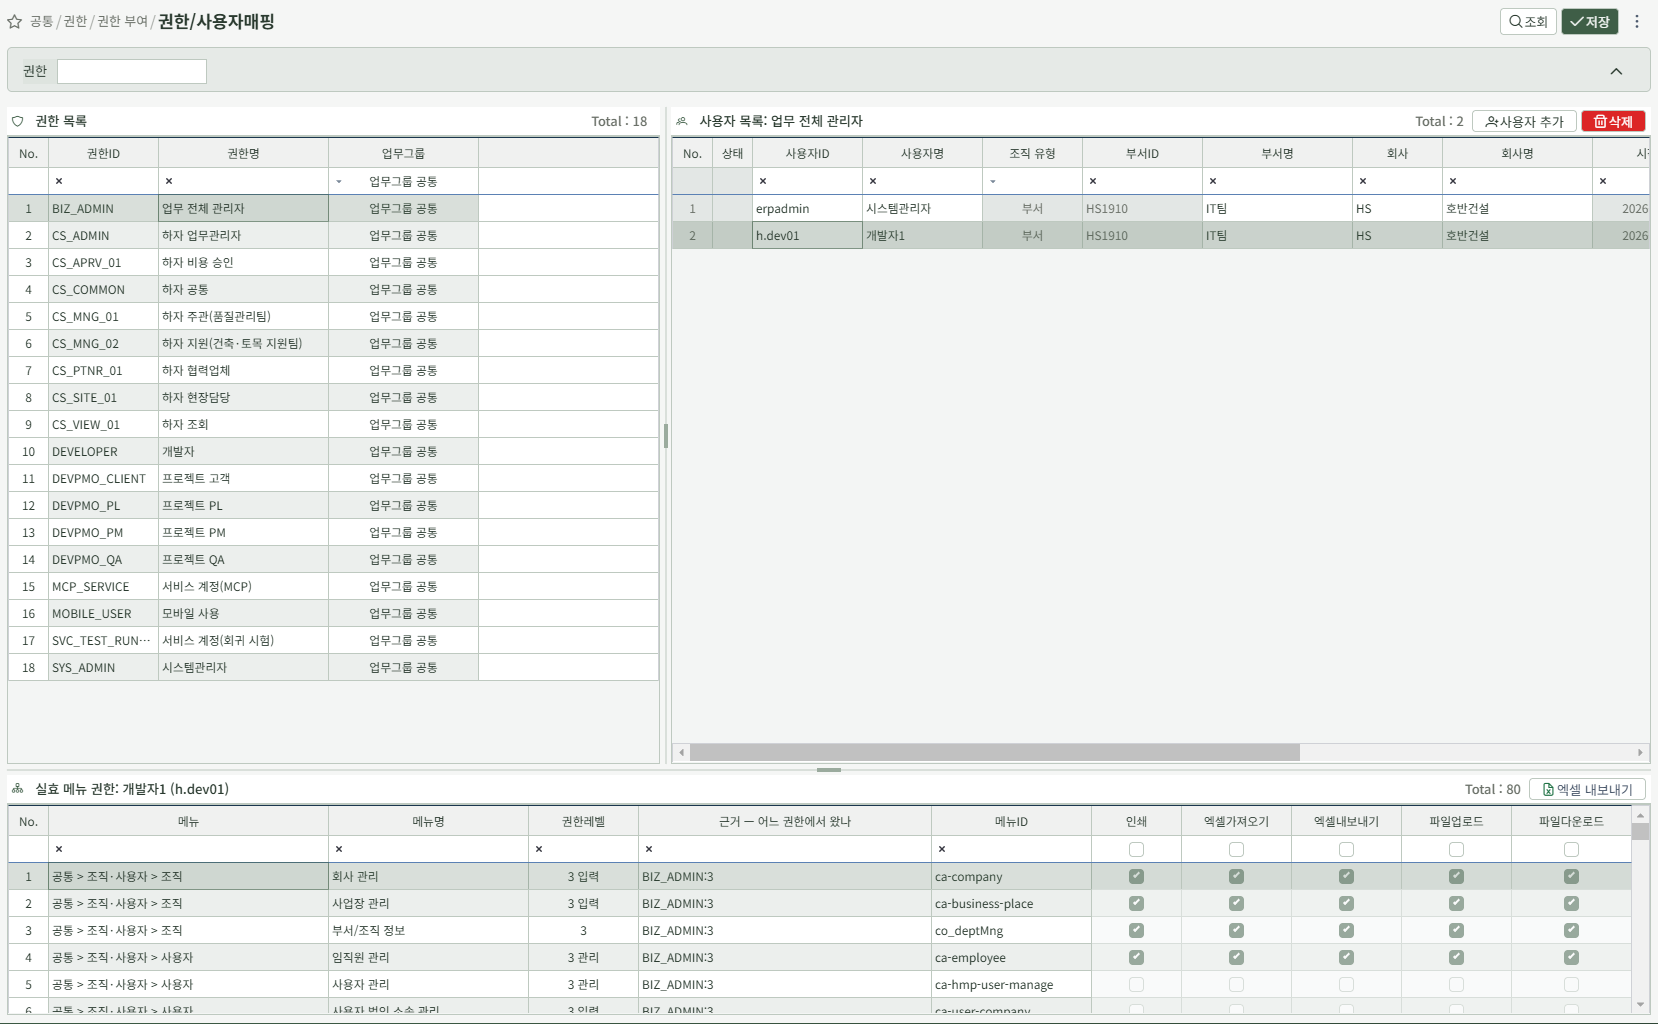
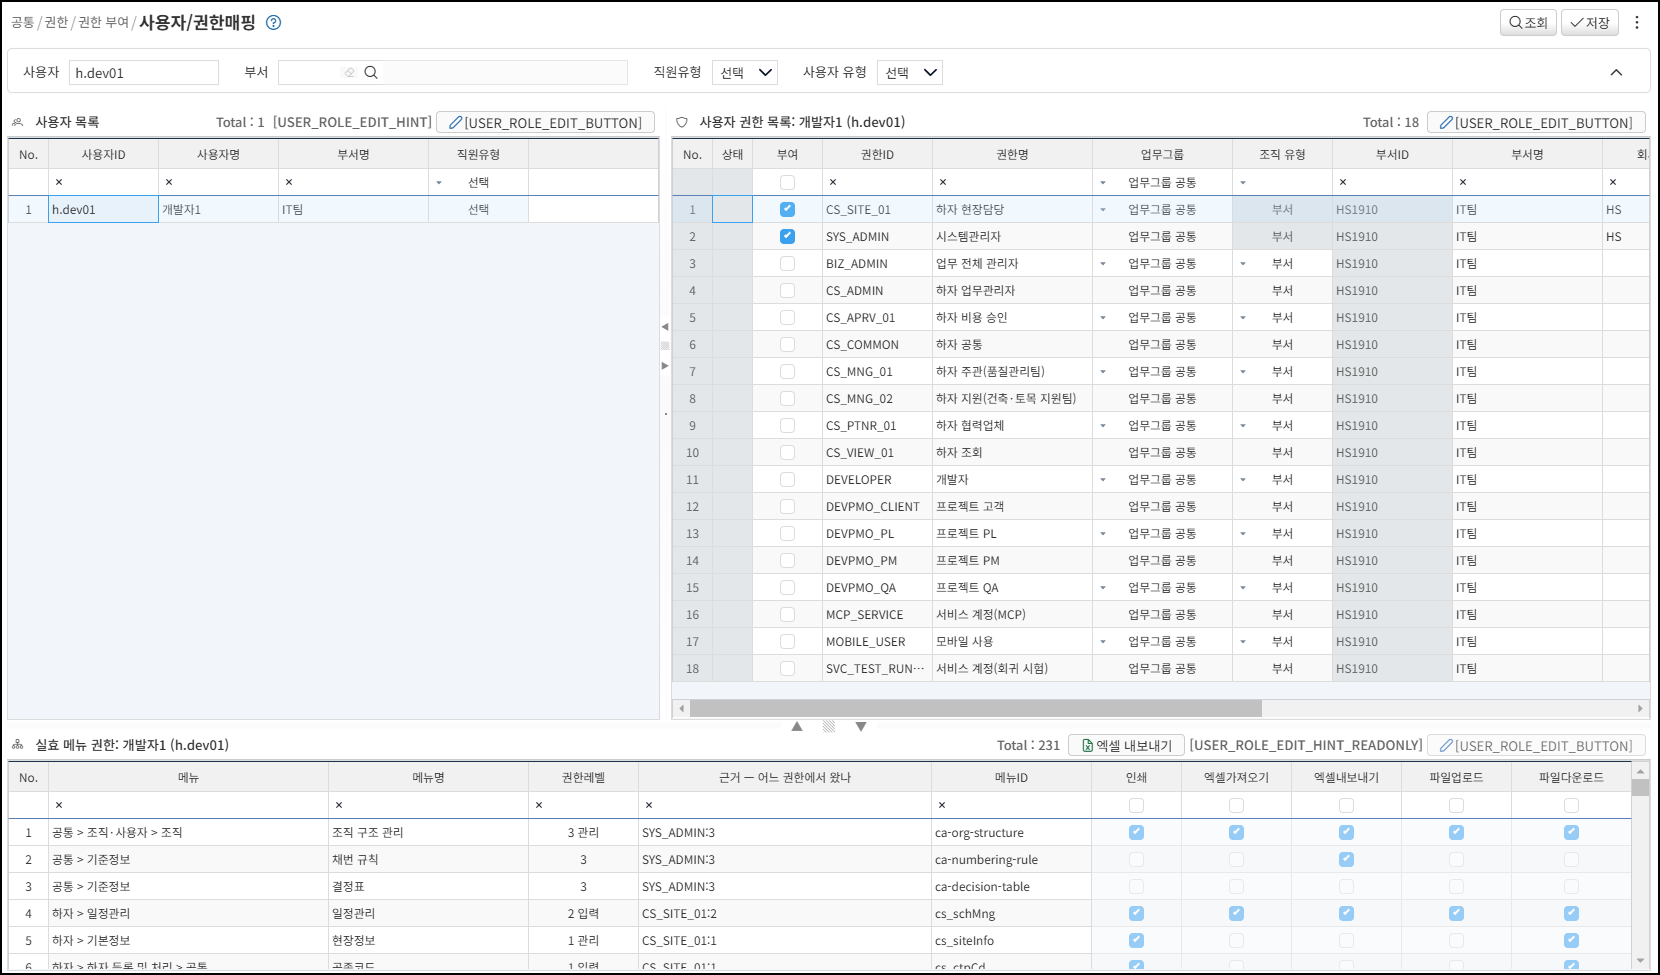
update

diff --git a/works/2026/202611/20261116/claude/03_role설정프로그램/0304_권한-사용자매핑/0304_권한-사용자매핑.md b/works/2026/202611/20261116/claude/03_role설정프로그램/0304_권한-사용자매핑/0304_권한-사용자매핑.md
@@ -1,6 +1,14 @@
 - 메뉴경로 : 권한 > 권한 정의 > 권한 관리
-- 프로그램이름 : ca-role
-- 프로그램경로 : /page/ca-role
+- 프로그램이름 : ca-user-role-by-user
+- 프로그램경로 : /page/ca-user-role-by-user
 - 화면
 
   ![alt text](0304_권한-사용자매핑-화면.png)
+
+  ---
+
+# TODOS
+## SearchBar
+- 화면 표시이후 '조회'버튼클릭으로 항목입력없이 조회불가.
+- 필수값 표시 또는 안내문구 없어 '조회'버튼클릭 전에는 인지불가.
+- 직원유형과 사용자유형을 selectbox의 항목에 '전체'항목 없음.
